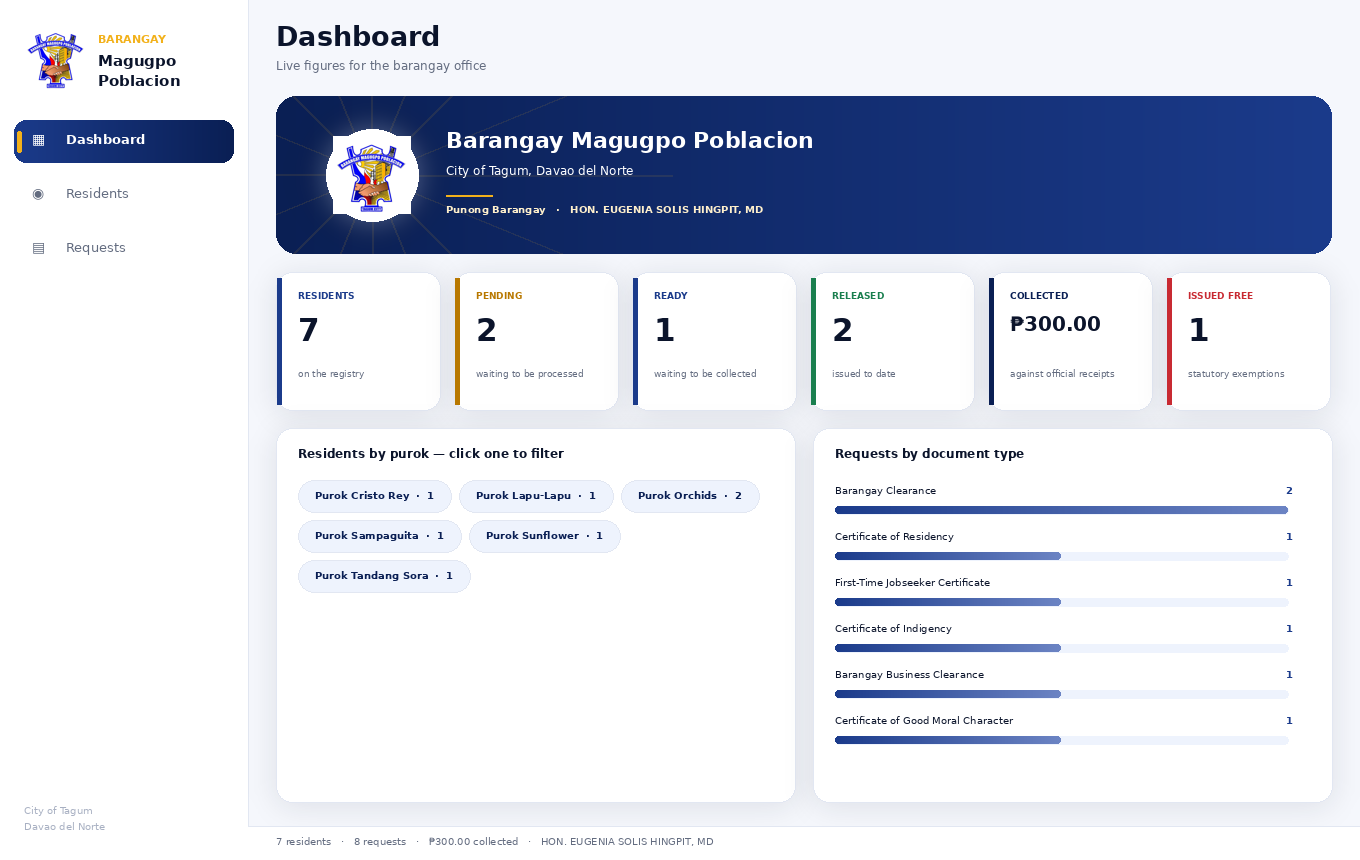
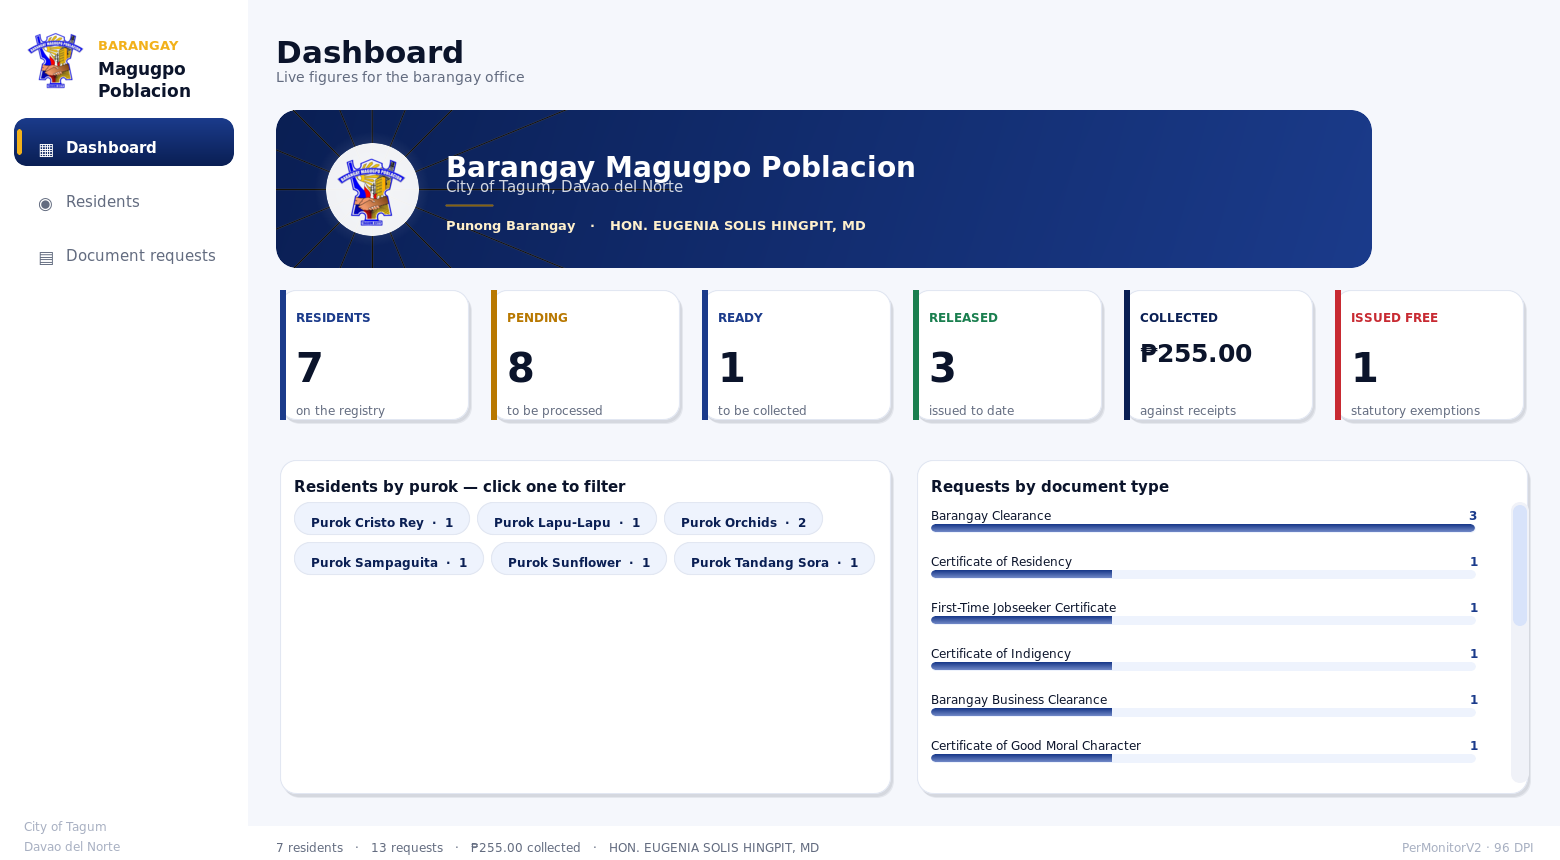
Dashboard: regenerate the preview from the v3.1.1 app
The old docs/dashboard-preview.png was a v3-era mock (8 requests,
PHP 300 collected, 6 document types, retired captions) that nothing
referenced. Replaced with a preview that mirrors the actual v3.1.1
dashboard code (DashboardView / MainShell / NavigationSidebar / Card,
Chip, BarRow / AppTheme) and the real seed figures:

- 6 stat tiles: 7 residents, 8 pending, 1 ready, 3 released,
  PHP 255.00 collected, 1 issued free (v3.1.1 captions)
- hero banner: seal, rays, glow, gold rule, Punong Barangay
- 6 purok chips (Purok Orchids = 2) and the 11 document-type bars
  (Barangay Clearance = 3, max), with the flow scrollbar
- sidebar labels/geometry per NavigationSidebar.cs ('Document requests',
  248px rail, glyphs, active gradient + gold tab)
- status bar: '7 residents / 13 requests / PHP 255.00 collected /
  HON. EUGENIA SOLIS HINGPIT, MD' and the PerMonitorV2 DPI readout

Old file deleted and replaced at the same protocol path (docs/), and the
new file is now referenced where it belongs: embedded in the README
Interface section and cited as the expected first-run state in
docs/08-demo-walkthrough.md.

diff --git a/docs/08-demo-walkthrough.md b/docs/08-demo-walkthrough.md
@@ -25,7 +25,9 @@ arithmetic; this covers what a human sees.
 ## 2. First run (sample data)
 
 The app seeds fictional people on start, chosen to exercise every branch of
-the fee rules. The dashboard should show:
+the fee rules. The dashboard should match the reference preview in
+[`docs/dashboard-preview.png`](dashboard-preview.png), regenerated for
+v3.1.1 — it should show:
 
 - **7 residents** across the real puroks of Magugpo Poblacion.
 - **13 requests**: 8 pending, 1 processing, 1 ready for release, 3 released.

diff --git a/README.md b/README.md
@@ -226,6 +226,8 @@ Modelled on a digital-government service concept: white canvas,
 lavender-blue gradients, rounded cards, pill buttons, heavy headings — set
 in **Inter** when the machine has it.
 
+![Dashboard preview](docs/dashboard-preview.png)
+
 **Everything is clickable.** Dashboard stat cards jump to the filtered list
 they summarise; purok chips open the residents of that purok; resident rows
 show that person's request history underneath; double-clicking a request
